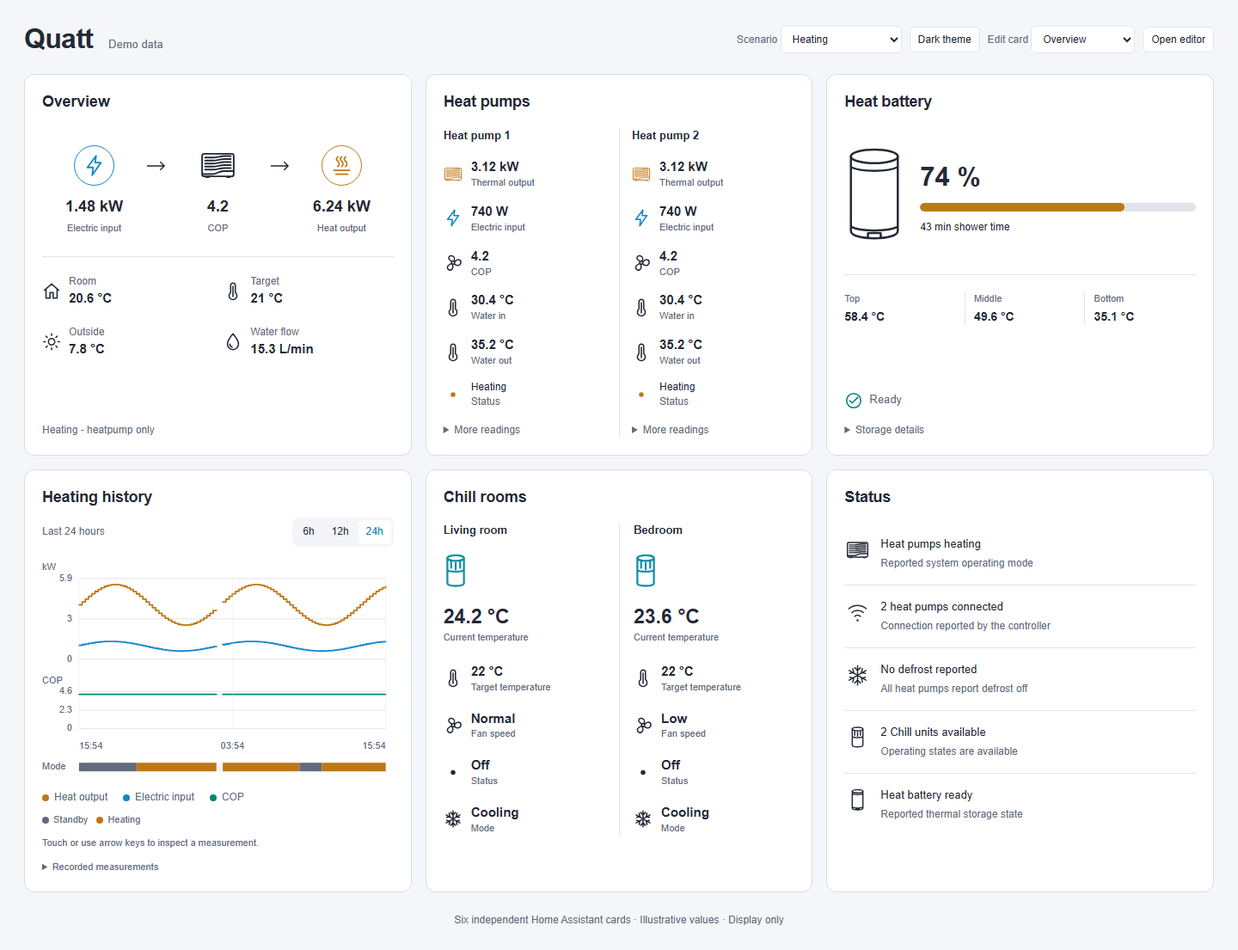
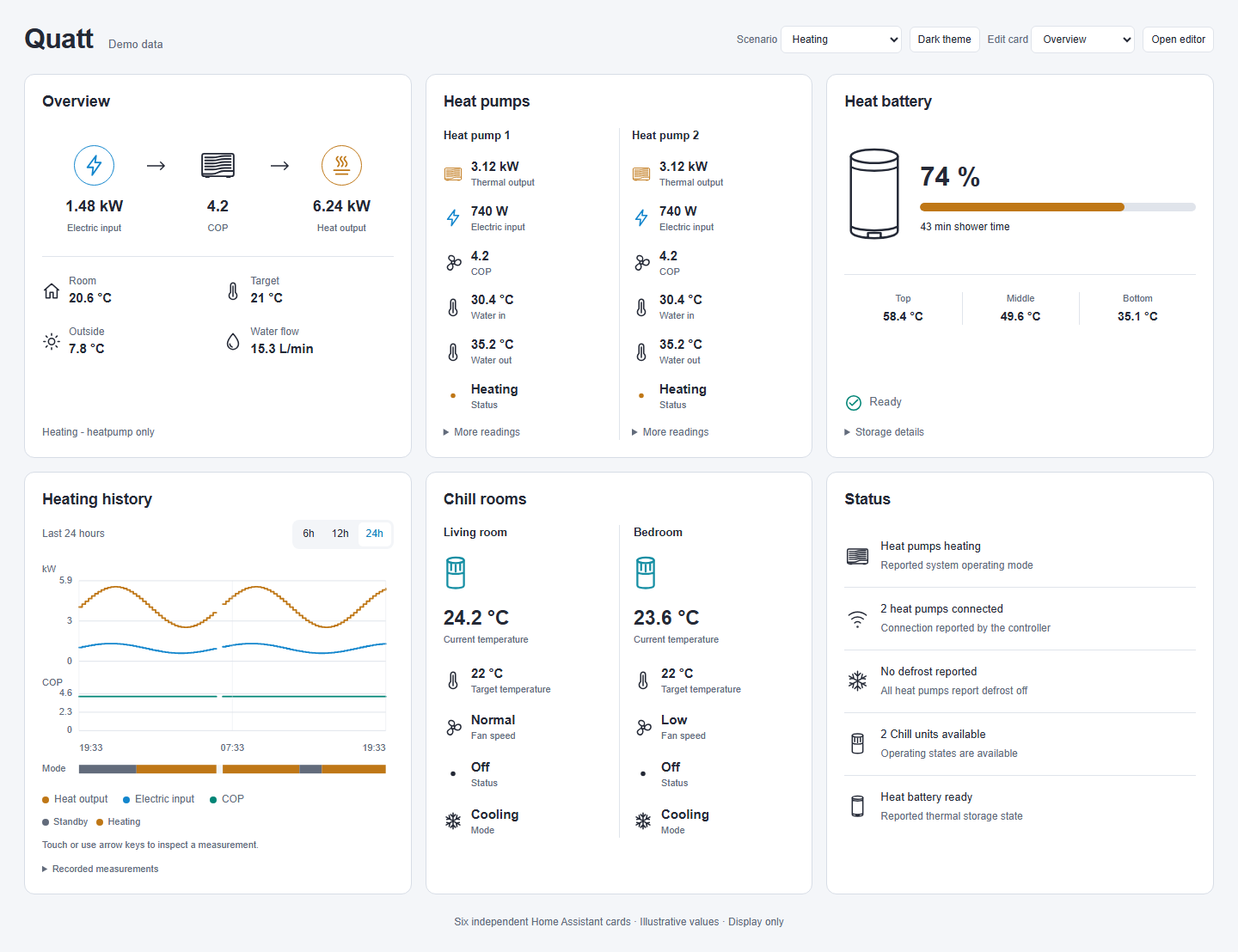
Fix single-unit layouts and reading alignment

diff --git a/src/cards/chill-card.ts b/src/cards/chill-card.ts
@@ -10,20 +10,23 @@ export class QuattChillCard extends BaseCard {
     h3{font-size:13px;font-weight:600;margin:0 0 16px;overflow-wrap:anywhere}.unit-icon{color:var(--qc-cool);display:block;margin-bottom:10px}.unit-icon .icon{width:28px;height:42px;stroke-width:1.3}
     .temperature .value{font-size:23px}.temperature>.label{display:block;font-size:11px}.fields{display:grid;gap:17px;margin-top:20px}.warning{margin-top:12px;color:var(--qc-warning);font-size:12px}
     .rooms.stacked,.rooms.compact{grid-template-columns:1fr;gap:0}.stacked .room,.compact .room{padding:16px 0;border-left:0;border-top:1px solid var(--qc-line)}.stacked .room:first-child,.compact .room:first-child{padding-top:0;border-top:0}
-    .stacked .room,.compact .room{display:grid;grid-template-columns:1fr auto;gap:0 12px}.stacked .unit-icon{grid-row:2}.stacked .fields,.compact .fields{grid-column:1/-1;grid-template-columns:repeat(2,minmax(0,1fr))}.stacked .temperature{grid-row:2;align-self:center}
+    .stacked .summary{display:flex;align-items:center;justify-content:space-between;gap:16px}.stacked .unit-icon{margin:0}.stacked .fields,.compact .fields{grid-column:1/-1;grid-template-columns:repeat(2,minmax(0,1fr))}
+    .compact .room{display:grid;grid-template-columns:minmax(0,1fr) auto;gap:0 12px;align-items:start}.compact .summary{text-align:right}.compact .warning{grid-column:1/-1}
     .compact .unit-icon{display:none}.compact .temperature .value{font-size:20px}.compact .device-field>.icon{display:none}.compact .fields{grid-template-columns:repeat(4,minmax(0,1fr));gap:8px}
     .rooms.three .device-field>.icon{display:none}.rooms.three .room{padding:0 9px}.rooms.three .row-start{padding-left:0}.rooms.three .temperature .value{font-size:19px}
+    .rooms.single.columns h3{text-align:center}.rooms.single.columns .summary{display:flex;justify-content:center;align-items:center;gap:16px;margin:20px 0 26px}.rooms.single.columns .unit-icon{margin:0}.rooms.single.columns .fields{grid-template-columns:repeat(2,minmax(0,1fr));gap:22px 18px}
+    ha-card.single-device{min-height:0}
     @container(max-width:350px){.room{padding:0 10px}.device-field{gap:8px}.device-field .value{font-size:14px}.device-field .label{font-size:10px}.temperature .value{font-size:20px}}
   `];
   private room(d:QuattDevice,index:number,columns:number) {
     const m=d.metrics,status=m.status?.text||(!d.available?'Unavailable':'Status unavailable');
-    return html`<article class=${`room${index%columns===0?' row-start':''}`} aria-label=${d.name}><h3>${d.name}</h3><span class="unit-icon">${icon('chill')}</span>
-      <div class="temperature">${this.value(m.roomTemperature,`${d.name} temperature`)}<span class="label">Current temperature</span></div><div class="fields">
+    return html`<article class=${`room${index%columns===0?' row-start':''}`} aria-label=${d.name}><h3>${d.name}</h3><div class="summary"><span class="unit-icon">${icon('chill')}</span>
+      <div class="temperature">${this.value(m.roomTemperature,`${d.name} temperature`)}<span class="label">Current temperature</span></div></div><div class="fields">
       ${this.deviceField('Target temperature',m.targetTemperature,'thermometer')}${this.deviceField('Fan speed',m.fanMode,'fan')}${this.deviceField('Status',{...m.status,value:null,text:status,unit:''},d.available?'dot':'warning')}${this.deviceField('Mode',m.mode,m.mode?.text?.toLowerCase().includes('heat')?'heat':'snow')}
       </div>${this.on(m.waterWarning)?html`<p class="warning">Water tank needs attention</p>`:nothing}</article>`;
   }
   protected render() {
     const rooms=this.snapshot.chills.filter(d=>!this.config.device||d.id===this.config.device),columns=Math.min(3,Math.max(1,rooms.length));
-    return html`<ha-card>${this.renderHeader('Chill rooms')}${this.renderNotice()}${rooms.length?html`<div class=${`rooms ${this.config.layout||'columns'} ${columns===3?'three':''}`} style=${`--columns:${columns}`}>${rooms.map((d,i)=>this.room(d,i,columns))}</div>`:html`<p class="empty">No Chill units found. Chill telemetry requires the Quatt Remote Mobile API.</p>`}</ha-card>`;
+    return html`<ha-card class=${rooms.length===1?'single-device':''}>${this.renderHeader('Chill rooms')}${this.renderNotice()}${rooms.length?html`<div class=${`rooms ${this.config.layout||'columns'} ${columns===3?'three':''} ${rooms.length===1?'single':''}`} style=${`--columns:${columns}`}>${rooms.map((d,i)=>this.room(d,i,columns))}</div>`:html`<p class="empty">No Chill units found. Chill telemetry requires the Quatt Remote Mobile API.</p>`}</ha-card>`;
   }
 }

diff --git a/src/cards/heat-pump-card.ts b/src/cards/heat-pump-card.ts
@@ -1,6 +1,5 @@
 import { css, html, nothing } from 'lit';
 import { BaseCard } from '../base-card';
-import { icon } from '../ui';
 import type { QuattDevice } from '../types';
 export class QuattHeatPumpCard extends BaseCard {
   static getStubConfig() { return {type:'custom:quatt-heat-pump-card'}; }
@@ -9,7 +8,10 @@ export class QuattHeatPumpCard extends BaseCard {
     ha-card{min-height:385px}.units{display:grid;grid-template-columns:repeat(var(--columns,2),minmax(0,1fr));gap:24px 0}
     .unit{min-width:0;padding:0 14px;border-left:1px solid var(--qc-line)}.unit.row-start{padding-left:0;border-left:0}.unit:last-child{padding-right:0}
     h3{margin:0 0 16px;font-size:13px;font-weight:600;overflow-wrap:anywhere}
-    .fields{display:grid;gap:14px}.state{display:flex;gap:10px;align-items:center;font-size:12px}.state .icon{width:22px;height:24px;color:var(--qc-heat)}
+    .fields{display:grid;gap:14px}
+    .units.single.columns .fields{grid-template-columns:repeat(2,minmax(0,1fr));gap:22px 18px}
+    .units.single.columns h3{margin-bottom:24px}
+    ha-card.single-device{min-height:0}
     .units.stacked,.units.compact{grid-template-columns:1fr;gap:0}.stacked .unit,.compact .unit{padding:15px 0;border-left:0;border-top:1px solid var(--qc-line)}.stacked .unit:first-child,.compact .unit:first-child{padding-top:0;border:0}
     .stacked .fields{grid-template-columns:repeat(2,minmax(0,1fr));gap:16px}.compact .fields{grid-template-columns:repeat(3,minmax(0,1fr));gap:12px}.compact .device-field>.icon{display:none}.compact h3{margin-bottom:12px}
     @container(max-width:360px){.unit{padding:0 10px}.device-field{gap:7px}.device-field>.icon{width:19px}.device-field .value{font-size:14px}.device-field .label{font-size:10px}.fields{gap:15px}}
@@ -19,11 +21,11 @@ export class QuattHeatPumpCard extends BaseCard {
     const m=device.metrics,status=!device.available?'Unavailable':this.on(m.defrost)?'Defrost reported':m.status?.text||'Status unavailable';
     return html`<article class=${`unit${index%columns===0?' row-start':''}`} aria-label=${device.name}><h3>${device.name}</h3><div class="fields">
       ${this.deviceField('Thermal output',m.heatPower,'pump','heat',2)}${this.deviceField('Electric input',m.electricPower,'electric','electric',2)}${this.deviceField('COP',m.cop,'fan')}${this.deviceField('Water in',m.returnTemperature,'thermometer')}${this.deviceField('Water out',m.supplyTemperature,'thermometer')}
-      <div class="state">${icon(!device.available?'warning':this.on(m.defrost)?'snow':'dot')}<div>${status}<div class="label">Status</div></div></div>
+      ${this.deviceField('Status',{...m.status,value:null,text:status,unit:''},!device.available?'warning':this.on(m.defrost)?'snow':'dot','heat')}
     </div>${m.compressorSpeed||m.outdoorTemperature?html`<details class="detail-readings"><summary>More readings</summary><div class="stat-grid">${this.metric('Compressor',m.compressorSpeed,true)}${this.metric('Outside',m.outdoorTemperature,true)}</div></details>`:nothing}</article>`;
   }
   protected render() {
     const devices=this.snapshot.heatPumps.filter(d=>!this.config.device||d.id===this.config.device),columns=Math.min(3,Math.max(1,devices.length));
-    return html`<ha-card>${this.renderHeader('Heat pumps')}${this.renderNotice()}${devices.length?html`<div class=${`units ${this.config.layout||'columns'} ${columns===3?'three':''}`} style=${`--columns:${columns}`}>${devices.map((d,i)=>this.unit(d,i,columns))}</div>`:html`<p class="empty">No heat pump readings found. Select a Quatt installation${this.config.device?' or another device':''}.</p>`}</ha-card>`;
+    return html`<ha-card class=${devices.length===1?'single-device':''}>${this.renderHeader('Heat pumps')}${this.renderNotice()}${devices.length?html`<div class=${`units ${this.config.layout||'columns'} ${columns===3?'three':''} ${devices.length===1?'single':''}`} style=${`--columns:${columns}`}>${devices.map((d,i)=>this.unit(d,i,columns))}</div>`:html`<p class="empty">No heat pump readings found. Select a Quatt installation${this.config.device?' or another device':''}.</p>`}</ha-card>`;
   }
 }

diff --git a/tests/browser/cards.spec.ts b/tests/browser/cards.spec.ts
@@ -73,3 +73,32 @@ test('sensor detail events are read-only; cards share discovery and release subs
 test('picker metadata, editors and layout sizing work before HA assigns state',async({page})=>{
  await open(page);const results=await page.evaluate(names=>names.map(name=>{const tag=`quatt-${name}-card`,ctor=customElements.get(tag) as CustomElementConstructor&{getStubConfig():CardConfig;getConfigElement():HTMLElement};const element=document.createElement(tag) as Card;return {type:ctor.getStubConfig().type,editor:ctor.getConfigElement().tagName,size:element.getCardSize(),grid:element.getGridOptions()};}),names);for(const [i,r] of results.entries()){expect(r.type).toBe(`custom:quatt-${names[i]}-card`);expect(r.editor).toBe('QUATT-CARD-EDITOR');expect(r.size).toBeGreaterThan(0);expect(r.grid).toMatchObject({columns:12,rows:'auto'});}
 });
+
+for(const viewport of [{name:'desktop',width:1440,height:1050},{name:'tablet',width:820,height:1100},{name:'phone',width:390,height:844}])for(const theme of ['light','dark'] as const){
+ test(`${viewport.name} ${theme}: single units fill both sides and readings align`,async({page})=>{
+  await page.setViewportSize(viewport);await open(page);
+  await page.evaluate(theme=>{window.demo.setTheme(theme);window.demo.setScenario('single');},theme);
+  for(const name of ['heat-pump','chill']){
+   const card=page.locator(`quatt-${name}-card`);await expect(card.locator('article')).toHaveCount(1);
+   const fields=await card.locator('.fields>.device-field').evaluateAll(elements=>elements.map(e=>{const r=e.getBoundingClientRect();return {x:r.x,y:r.y,width:r.width};}));
+   expect(Math.abs(fields[0].y-fields[1].y)).toBeLessThan(1);
+   expect(fields[1].x).toBeGreaterThan(fields[0].x+fields[0].width);
+   expect(Math.abs(fields[0].width-fields[1].width)).toBeLessThan(1);
+  }
+  const centers=await page.locator('quatt-heat-battery-card').locator('.temperatures .stat').evaluateAll(elements=>elements.flatMap(e=>{const r=e.getBoundingClientRect();return [...e.children].map(child=>{const c=child.getBoundingClientRect();return Math.abs(c.x+c.width/2-r.x-r.width/2);});}));
+  for(const delta of centers)expect(delta).toBeLessThan(1);
+  const statusAlignment=await page.locator('quatt-status-card').locator('.row').evaluateAll(elements=>elements.map(e=>{const [icon,text]=[...e.children].map(c=>c.getBoundingClientRect());return Math.abs(icon.y+icon.height/2-text.y-text.height/2);}));
+  for(const delta of statusAlignment)expect(delta).toBeLessThan(1);
+  await page.screenshot({path:`.impeccable/review/single-${viewport.name}-${theme}.png`,fullPage:true});
+  // Selecting one unit from a larger installation must use the same layout.
+  await page.evaluate(()=>{window.demo.setScenario('heating');window.demo.setConfig('heat-pump',{device:'demo-hp-1'});window.demo.setConfig('chill',{device:'demo-chill-1'});});
+  for(const layout of ['columns','stacked','compact'] as const){
+   await page.evaluate(layout=>{window.demo.setConfig('heat-pump',{layout});window.demo.setConfig('chill',{layout});},layout);
+   for(const name of ['heat-pump','chill']){
+    const card=page.locator(`quatt-${name}-card`);await expect(card.locator('article')).toHaveCount(1);
+    expect(await card.locator('.fields').evaluate(e=>e.scrollWidth-e.clientWidth)).toBeLessThanOrEqual(1);
+    expect(await card.locator('article').evaluate(e=>e.scrollWidth-e.clientWidth)).toBeLessThanOrEqual(1);
+   }
+  }
+ });
+}

diff --git a/src/demo/main.ts b/src/demo/main.ts
@@ -10,7 +10,7 @@ const types=names.map(name=>`custom:quatt-${name}-card` as CardType);
 const configs=new Map<CardType,CardConfig>();
 let demo=createDemo();
 
-document.body.innerHTML=`<main><header class="demo-header"><div class="brand"><h1>Quatt</h1><span class="demo-label">Demo data</span></div><div class="demo-controls"><label>Scenario <select id="scenario"><option value="heating">Heating</option><option value="idle">Standby</option><option value="cooling">Chill cooling</option><option value="defrost">Defrost</option><option value="offline">Device offline</option><option value="partial">Partial data</option><option value="missing">Integration missing</option><option value="many">Five Chill rooms</option></select></label><button id="theme">Dark theme</button><label>Edit card <select id="edit-card">${names.map((name,i)=>`<option value="${name}">${titles[i]}</option>`).join('')}</select></label><button id="edit">Open editor</button></div></header><section class="card-grid" aria-label="Quatt cards"></section><section class="editor-panel" hidden><div class="editor-heading"><h2>Card editor</h2><button id="close-editor">Close editor</button></div><div id="editor-mount"></div></section><footer>Six independent Home Assistant cards · Illustrative values · Display only</footer></main>`;
+document.body.innerHTML=`<main><header class="demo-header"><div class="brand"><h1>Quatt</h1><span class="demo-label">Demo data</span></div><div class="demo-controls"><label>Scenario <select id="scenario"><option value="heating">Heating</option><option value="single">Single units</option><option value="idle">Standby</option><option value="cooling">Chill cooling</option><option value="defrost">Defrost</option><option value="offline">Device offline</option><option value="partial">Partial data</option><option value="missing">Integration missing</option><option value="many">Five Chill rooms</option></select></label><button id="theme">Dark theme</button><label>Edit card <select id="edit-card">${names.map((name,i)=>`<option value="${name}">${titles[i]}</option>`).join('')}</select></label><button id="edit">Open editor</button></div></header><section class="card-grid" aria-label="Quatt cards"></section><section class="editor-panel" hidden><div class="editor-heading"><h2>Card editor</h2><button id="close-editor">Close editor</button></div><div id="editor-mount"></div></section><footer>Six independent Home Assistant cards · Illustrative values · Display only</footer></main>`;
 const grid=document.querySelector('.card-grid')!;
 const cardElements=new Map<CardType,DemoCard>();
 for(const type of types) {

diff --git a/src/demo/fixtures.ts b/src/demo/fixtures.ts
@@ -1,6 +1,6 @@
 import type { HassEntity, HomeAssistant, RegistryData, RegistryEntity } from '../types';
 
-export type DemoScenario = 'heating' | 'idle' | 'cooling' | 'defrost' | 'offline' | 'partial' | 'missing' | 'many';
+export type DemoScenario = 'heating' | 'idle' | 'cooling' | 'defrost' | 'offline' | 'partial' | 'missing' | 'many' | 'single';
 export interface DemoDiagnostics { requests: string[]; services: string[]; activeSubscriptions: number; }
 export interface DemoHass extends HomeAssistant { __demoDiagnostics: DemoDiagnostics; }
 export function createDemo(scenario: DemoScenario | string = 'heating', now = new Date()): { hass: DemoHass; registry: RegistryData } {
@@ -87,6 +87,15 @@ export function createDemo(scenario: DemoScenario | string = 'heating', now = ne
     for (const entity of registry.entities.filter(entity => /:allEStatus.heatBatteryPercentage$|:hb.middleTemperature$|:heatPumps.1.compressorFrequency$/.test(entity.unique_id || ''))) delete states[entity.entity_id];
     const water = registry.entities.find(entity => entity.device_id === 'demo-chill-2' && entity.unique_id?.endsWith('hasWaterTankLevelWarning'));
     if (water) states[water.entity_id].state = 'on';
+  }
+  if (scenario === 'single') {
+    const removed = new Set(['demo-hp-2', 'demo-chill-2']);
+    registry.entities = registry.entities.filter(entity => {
+      const remove = removed.has(entity.device_id || '') || entity.unique_id?.endsWith(':isHp2Connected');
+      if (remove) delete states[entity.entity_id];
+      return !remove;
+    });
+    registry.devices = registry.devices.filter(device => !removed.has(device.id));
   }
   if (scenario === 'missing') { registry.entities = []; registry.devices = []; Object.keys(states).forEach(id => delete states[id]); }
   const hass: DemoHass = {

diff --git a/src/cards/heat-battery-card.ts b/src/cards/heat-battery-card.ts
@@ -8,7 +8,7 @@ export class QuattHeatBatteryCard extends BaseCard {
     .tank .icon{width:70px;height:119px;stroke-width:.5}.charge .value{font-size:31px}.charge-title{margin-bottom:7px}
     .meter{height:10px;border-radius:5px;background:var(--qc-line);overflow:hidden}.fill{height:100%;background:var(--qc-heat);border-radius:inherit}
     .shower{font-size:12px;margin-top:10px}.shower .value{font-size:12px;font-weight:400}
-    .temperatures{display:grid;grid-template-columns:repeat(3,minmax(0,1fr));gap:10px;padding:20px 0;border-top:1px solid var(--qc-line)}.temperatures .stat+.stat{border-left:1px solid var(--qc-line);padding-left:10px}
+    .temperatures{display:grid;grid-template-columns:repeat(3,minmax(0,1fr));padding:20px 0;border-top:1px solid var(--qc-line)}.temperatures .stat{align-items:center;text-align:center;padding:0 8px}.temperatures .stat+.stat{border-left:1px solid var(--qc-line)}
     .temperatures .value{font-size:14px}.temperatures .label{font-size:11px}.state-line{margin-top:auto;padding-top:18px;font-size:13px}.state-line .icon{width:22px;height:22px;color:var(--qc-good)}
     .details{margin-top:15px;font-size:12px;color:var(--qc-secondary)}summary{cursor:pointer}.details .stat-grid{margin-top:14px}.details .value{font-size:13px}
     @container(max-width:350px){.charge{grid-template-columns:60px minmax(0,1fr);gap:14px}.tank .icon{width:60px;height:110px}.charge .value{font-size:28px}.shower .value{font-size:12px}}

diff --git a/src/cards/status-card.ts b/src/cards/status-card.ts
@@ -5,7 +5,7 @@ export class QuattStatusCard extends BaseCard {
   static getStubConfig() { return {type:'custom:quatt-status-card'}; }
   static styles=[BaseCard.styles,css`
     ha-card{min-height:410px}
-    .rows{display:grid}.row{display:flex;gap:12px;align-items:flex-start;padding:16px 0;text-align:left;border:0;border-bottom:1px solid var(--qc-line);background:transparent;width:100%;font:inherit;color:inherit}
+    .rows{display:grid}.row{display:flex;gap:12px;align-items:center;padding:16px 0;text-align:left;border:0;border-bottom:1px solid var(--qc-line);background:transparent;width:100%;font:inherit;color:inherit}
     [role=listitem]:last-child .row{border-bottom:0}.row .disc{width:30px;height:30px;background:none;border-radius:0;color:var(--primary-text-color)}.row .disc .icon{width:27px;height:27px;stroke-width:1.3}
     .row .disc.warning{--accent:var(--qc-warning)}.row .disc.error{--accent:var(--qc-error)}.row .disc.neutral{--accent:var(--qc-secondary)}
     .row strong{font-size:13px;font-weight:500;display:block}.row small{display:block;color:var(--qc-secondary);font-size:12px;margin-top:3px;line-height:1.5}

diff --git a/src/index.ts b/src/index.ts
@@ -21,4 +21,4 @@ for(const [type,element,name,description] of cards) {
   if(!window.customCards.some(card=>card.type===type)) window.customCards.push({type,name,description,preview:true});
 }
 if(!customElements.get('quatt-card-editor')) customElements.define('quatt-card-editor',QuattCardEditor);
-console.info('QUATT CARDS 0.1.0 · Read-only heating insights');
+console.info('QUATT CARDS 0.1.1 · Read-only heating insights');

diff --git a/DESIGN.md b/DESIGN.md
@@ -132,7 +132,7 @@ Large readings are local instrument emphasis, not a general display ramp: overvi
 
 Each host is a block with inline-size containment and zero minimum width. Cards use the shared padding token, shrinking to the section spacing token at viewport widths up to (450px). Headers align title and subtitle on their baselines with a small gap. Shared measurement grids use two equal columns with (14px 16px) gaps; sections are separated by a top rule and (16px) spacing.
 
-The default C layout compares at most three heat pumps or Chill rooms per row, with additional units wrapping. Internal columns use vertical dividers; the first column in each row has no leading divider. Device count determines the column count. Narrow screens do not automatically change C into A or B. Three-column variants hide secondary field icons to protect reading width. A stacks units with horizontal dividers; B uses denser field grids and hides field icons.
+The default C layout compares at most three heat pumps or Chill rooms per row, with additional units wrapping. Internal columns use vertical dividers; the first column in each row has no leading divider. Device count determines the column count. When exactly one device is visible, C uses two reading columns and natural card height. The single Chill summary is centered above its readings. This applies equally to single-device installations and a selected device. Narrow screens do not automatically change C into A or B. Three-column variants hide secondary field icons to protect reading width. A stacks units with horizontal dividers; B uses denser field grids and hides field icons.
 
 Container adjustments are local: overview, HeatBattery and Chill at (350px), heat pumps at (360px), and history at (450px). Do not replace these with a global viewport assumption inside Lovelace dashboards.
 
@@ -168,7 +168,7 @@ Power traces share a panel; COP has its own aligned panel. A single (10px) segme
 
 ### Device field and status row
 
-A small icon leads a value/label pair; standard fields use the label-gap spacing token. Unit columns retain repeated reading order. Status rows use a divider, (16px) vertical padding, a (12px) icon/text gap, a medium-weight title and secondary explanation. Clickable status titles underline on hover.
+A small icon leads a value/label pair; standard fields use the label-gap spacing token. Unit columns retain repeated reading order. Heat-battery temperature cells center their labels and values in three equal columns. Status icons are vertically centered against their title and explanation. Status rows use a divider, (16px) vertical padding, a (12px) icon/text gap, a medium-weight title and secondary explanation. Clickable status titles underline on hover.
 
 ### Thermal charge meter
 

diff --git a/README.md b/README.md
@@ -15,13 +15,13 @@ Compact, display-only Home Assistant dashboard cards for the [Quatt integration 
 | Chill | `custom:quatt-chill-card` | All Chill units or one selected unit, with available temperature, fan, and operating information. |
 | System status | `custom:quatt-status-card` | Reported operating state, connectivity, defrost, limits, and available faults. |
 
-All cards have a visual configuration editor, card-picker preview, YAML configuration, and Sections/Masonry sizing. Heat pump and Chill collections support three styles: **C · Columns** by default, **A · Stacked**, and **B · Compact**. Columns uses at most three units per row; further units wrap onto new rows.
+All cards have a visual configuration editor, card-picker preview, YAML configuration, and Sections/Masonry sizing. Heat pump and Chill collections support three styles: **C · Columns** by default, **A · Stacked**, and **B · Compact**. Columns uses at most three units per row; further units wrap onto new rows. A single visible unit uses two reading columns across the card.
 
 Interactions inspect chart readings or open Home Assistant sensor details. Cards do not call services, change temperatures, switch modes, or operate equipment.
 
 ![The six Quatt cards in a light Home Assistant theme, using synthetic readings](docs/screenshots/desktop-light.png)
 
-[Dark theme](docs/screenshots/desktop-dark.png) · [Phone, light theme](docs/screenshots/phone-light.png) · [Phone, dark theme](docs/screenshots/phone-dark.png)
+[Single-unit layout](docs/screenshots/single-desktop-light.png) · [Single unit on phone](docs/screenshots/single-phone-dark.png) · [Dark theme](docs/screenshots/desktop-dark.png) · [Phone, light theme](docs/screenshots/phone-light.png) · [Phone, dark theme](docs/screenshots/phone-dark.png)
 
 ## Requirements
 
@@ -48,14 +48,14 @@ HACS normally registers the module automatically. If your resources are managed 
 
 1. Build the asset with `npm ci` and `npm run build`.
 2. Copy `dist/quatt-cards.js` to `/config/www/quatt-cards.js` on Home Assistant.
-3. Add a dashboard resource with URL `/local/quatt-cards.js?v=0.1.0` and resource type **JavaScript Module**.
+3. Add a dashboard resource with URL `/local/quatt-cards.js?v=0.1.1` and resource type **JavaScript Module**.
 4. Reload the browser. In **Add card**, search for **Quatt**.
 
 For dashboards with YAML-managed resources:
 
 ```yaml
 resources:
-  - url: /local/quatt-cards.js?v=0.1.0
+  - url: /local/quatt-cards.js?v=0.1.1
     type: module
 ```
 

diff --git a/docs/validation.md b/docs/validation.md
@@ -4,7 +4,7 @@ Local checks on 9 October 2026 passed with Node.js 24:
 
 - TypeScript checking and Vite production build.
 - 37 unit tests covering discovery, unit conversion, source priority, status, history normalization and shared registry subscriptions.
-- 14 Chromium browser tests covering all six cards and their editors, light/dark themes, desktop (1440px), tablet (820px), phone (390px), keyboard and touch inspection, live updates during inspection, missing/offline telemetry, read-only sensor details, and wrapping after three units.
+- 20 Chromium browser tests covering all six cards and their editors, light/dark themes, desktop (1440px), tablet (820px), phone (390px), keyboard and touch inspection, live updates during inspection, missing/offline telemetry, read-only sensor details, wrapping after three units, and single-unit installation/selection layouts in all three styles. Geometry assertions also check centered heat-battery temperatures and status icons.
 
 The browser suite renders actual Lit components using synthetic Home Assistant fixtures. It checks card overflow and page errors. Shared requests and subscription cleanup are tested. Screenshots in `docs/screenshots` come from that fixture preview, not a household dashboard.
 

diff --git a/CHANGELOG.md b/CHANGELOG.md
@@ -1,5 +1,11 @@
 # Changelog
 
+## 0.1.1
+
+- Use two reading columns and natural card height when a heat pump or Chill card shows one unit, including an explicitly selected device.
+- Center the single Chill summary and align temperature cells, operating status fields, and status-row icons.
+- Add a single-unit preview and browser regressions across desktop, tablet, phone, and both themes, including all three layout styles.
+
 ## 0.1.0
 
 - Add six display-only cards for Quatt system overview, performance history, heat pumps, thermal heat battery, Chill, and status.
